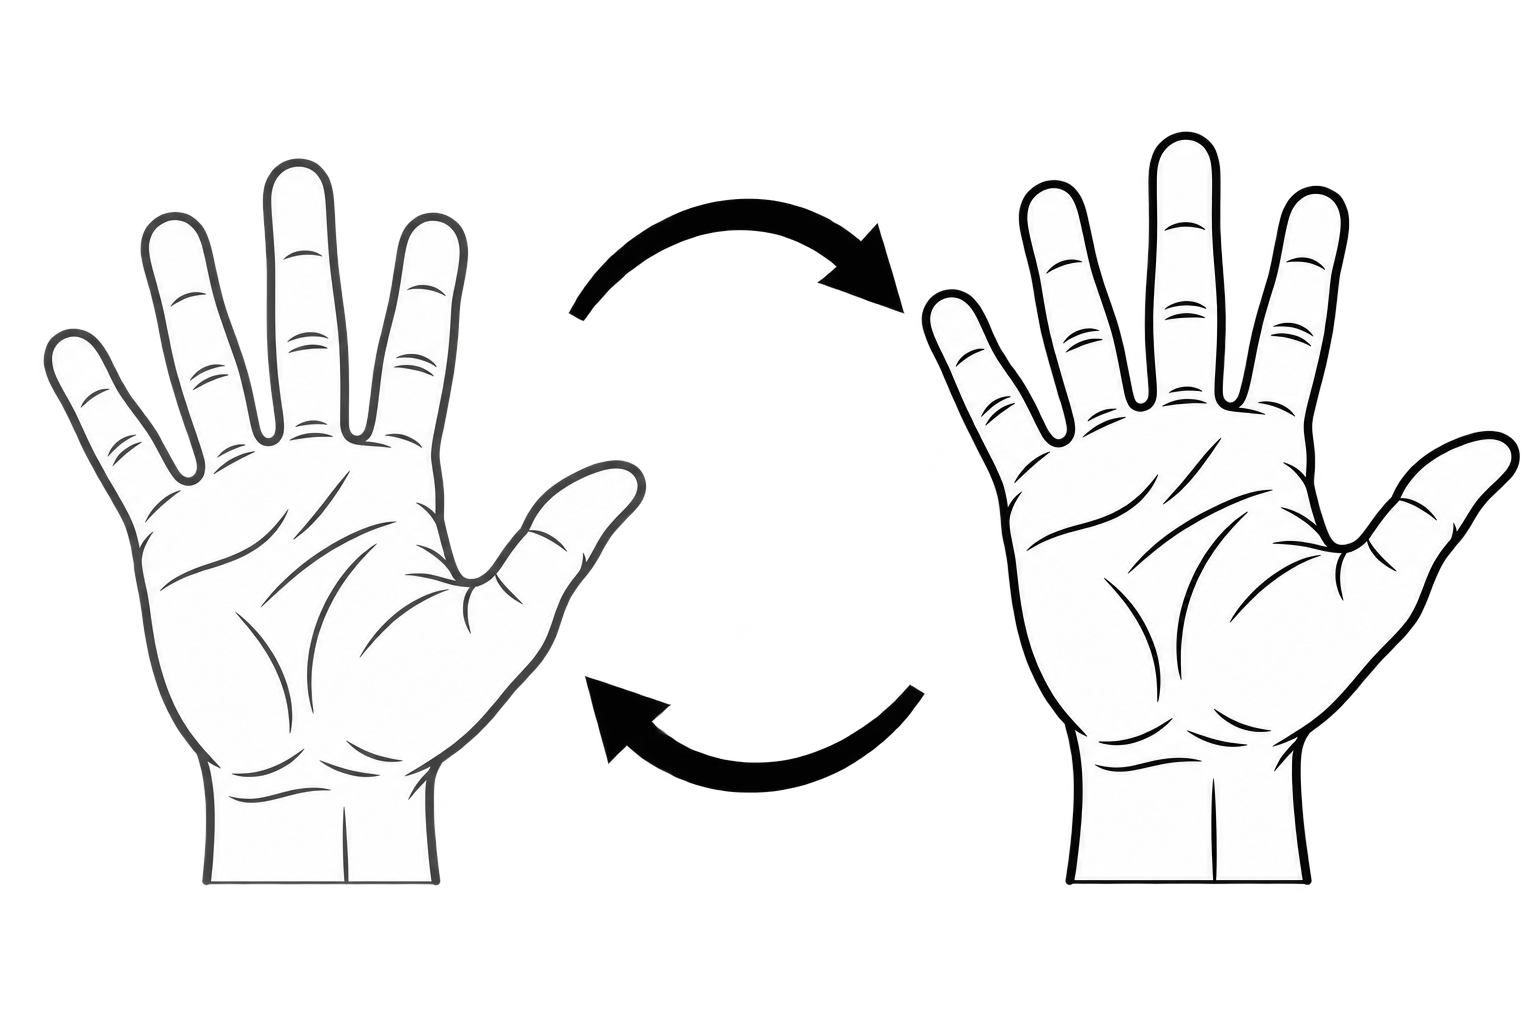
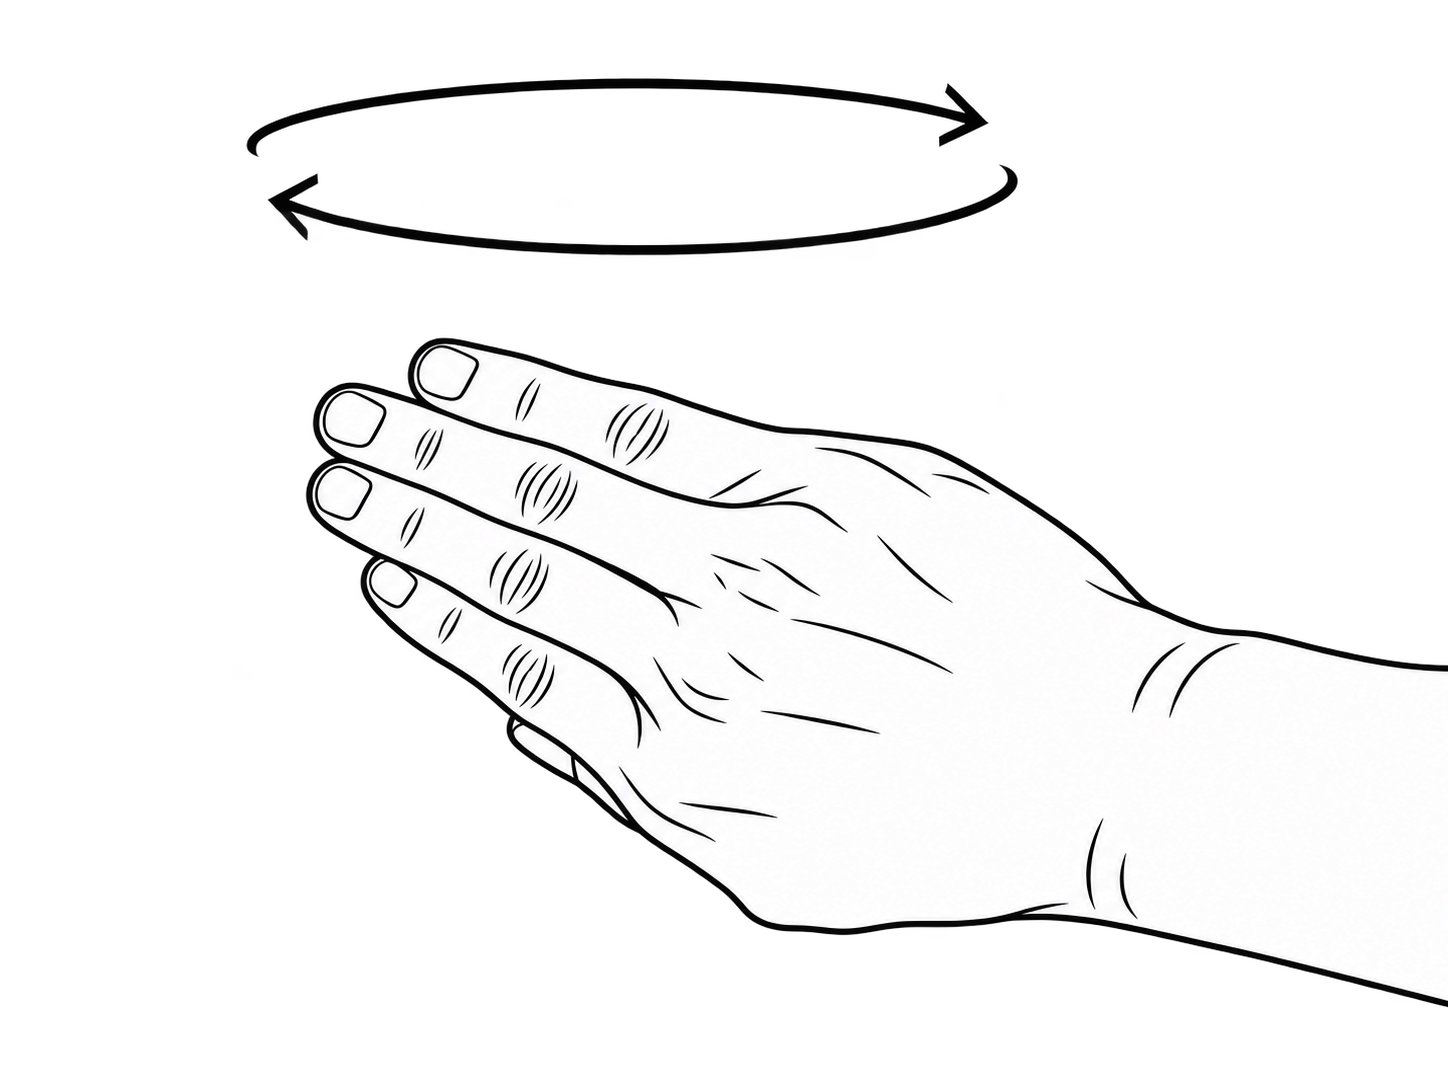
Refine reload and capture gestures from real right-hand photos

diff --git a/README.md b/README.md
@@ -9,7 +9,7 @@
 
 ## 指令對照
 
-下表直接引用兩組的同名 PNG；圖片更新後，這裡同步顯示新版。動態圖統一左側灰線為起始姿態、右側黑線為結束姿態，兩姿態分開呈現。
+下表直接引用兩組的同名 PNG；圖片更新後，這裡同步顯示新版。雙姿態動態圖以左側灰線為起始姿態、右側黑線為結束姿態，兩姿態分開呈現；重播以單一右手搭配順時針箭頭表示。
 
 | 編號 | 指令／檔名 | 本國組 | 非本國組 |
 |---|---|---|---|
@@ -19,7 +19,7 @@
 | 04 | 下一步 `next` | <img src="domestic/png/realistic-04-next-0-complete.png" width="180" alt="domestic 04 next"> <br> 食指向右伸直，其餘四指收合（手背側） | <img src="international/png/realistic-04-next-0-complete.png" width="180" alt="international 04 next"> <br> 食指向右伸直，其餘四指收合（手背側） |
 | 05 | 放大 `zoom-in` | <img src="domestic/png/realistic-05-zoom-in-0-complete.png" width="180" alt="domestic 05 zoom-in"> <br> 五指由收合逐漸張開（手背朝自己，拇指在左側） | <img src="international/png/realistic-05-zoom-in-0-complete.png" width="180" alt="international 05 zoom-in"> <br> 拇指與食指由接觸分開，其餘三指收合 |
 | 06 | 縮小 `zoom-out` | <img src="domestic/png/realistic-06-zoom-out-0-complete.png" width="180" alt="domestic 06 zoom-out"> <br> 五指由張開逐漸收合（手背朝自己，拇指在左側） | <img src="international/png/realistic-06-zoom-out-0-complete.png" width="180" alt="international 06 zoom-out"> <br> 拇指與食指由分開到接觸，其餘三指收合 |
-| 07 | 重播 `reload` | <img src="domestic/png/realistic-07-reload-0-complete.png" width="180" alt="domestic 07 reload"> <br> 五指張開，整手沿順時針軌跡移動；左灰、右黑姿態與兩個小箭頭 | <img src="international/png/realistic-07-reload-0-complete.png" width="180" alt="international 07 reload"> <br> 其餘四指收合，食指順時針畫圈（手背側）；左灰、右黑姿態與兩個小箭頭 |
+| 07 | 重播 `reload` | <img src="domestic/png/realistic-07-reload-0-complete.png" width="180" alt="domestic 07 reload"> <br> 整手伸展，沿順時針軌跡畫圈；單一右手與兩個相連的開放式橢圓弧箭頭 | <img src="international/png/realistic-07-reload-0-complete.png" width="180" alt="international 07 reload"> <br> 其餘手指收合，食指順時針畫圈（手背側）；單一右手與兩個相連的開放式橢圓弧箭頭 |
 | 08 | 截圖 `capture` | <img src="domestic/png/realistic-08-capture-0-complete.png" width="180" alt="domestic 08 capture"> <br> 拇指與食指由分開到接觸捏合，其餘三指收合 | <img src="international/png/realistic-08-capture-0-complete.png" width="180" alt="international 08 capture"> <br> 拇指與食指各彎一個指節，指尖仍分開；其餘三指收合 |
 | 09 | 關閉 `close` | <img src="domestic/png/realistic-09-close-0-complete.png" width="180" alt="domestic 09 close"> <br> 五指收合成拳 | <img src="international/png/realistic-09-close-0-complete.png" width="180" alt="international 09 close"> <br> 五指收合成拳 |
 
@@ -41,4 +41,4 @@
 
 依研究者提供的原九宮格（本國組）、黃色表格（非本國組）與 [HackMD 實拍](https://hackmd.io/vlS1KejZR96oRrO-DFbUiA) 核對。統一使用本人看自己右手的第一人稱視角，逐張核對掌背面與拇指位置。
 
-`realistic-` 為解剖線稿 PNG，以研究者重附的五張產圖為風格基準，補圖使用 OpenAI imagegen。左側灰線表示起始姿態、右側黑線表示結束姿態，動態圖在同一畫布左右分開，左灰表示先比的姿態、右黑表示後比的姿態；不使用表示前後順序的向右箭頭；重播使用兩個順時針小箭頭。PNG 具有透明外背景與白色手部內底。原 SVG 與舊 PNG 保留供追溯，README 預覽引用新版本。
+`realistic-` 為解剖線稿 PNG，以研究者重附的五張產圖為風格基準，補圖使用 OpenAI imagegen。左側灰線表示起始姿態、右側黑線表示結束姿態，動態圖在同一畫布左右分開，左灰表示先比的姿態、右黑表示後比的姿態；不使用表示前後順序的向右箭頭；重播依研究者實拍右手呈現單一姿態，使用兩個順時針橢圓弧箭頭；開放式尖端與弧線相連，不使用實心三角形。PNG 具有透明外背景與白色手部內底。原 SVG 與舊 PNG 保留供追溯，README 預覽引用新版本。
